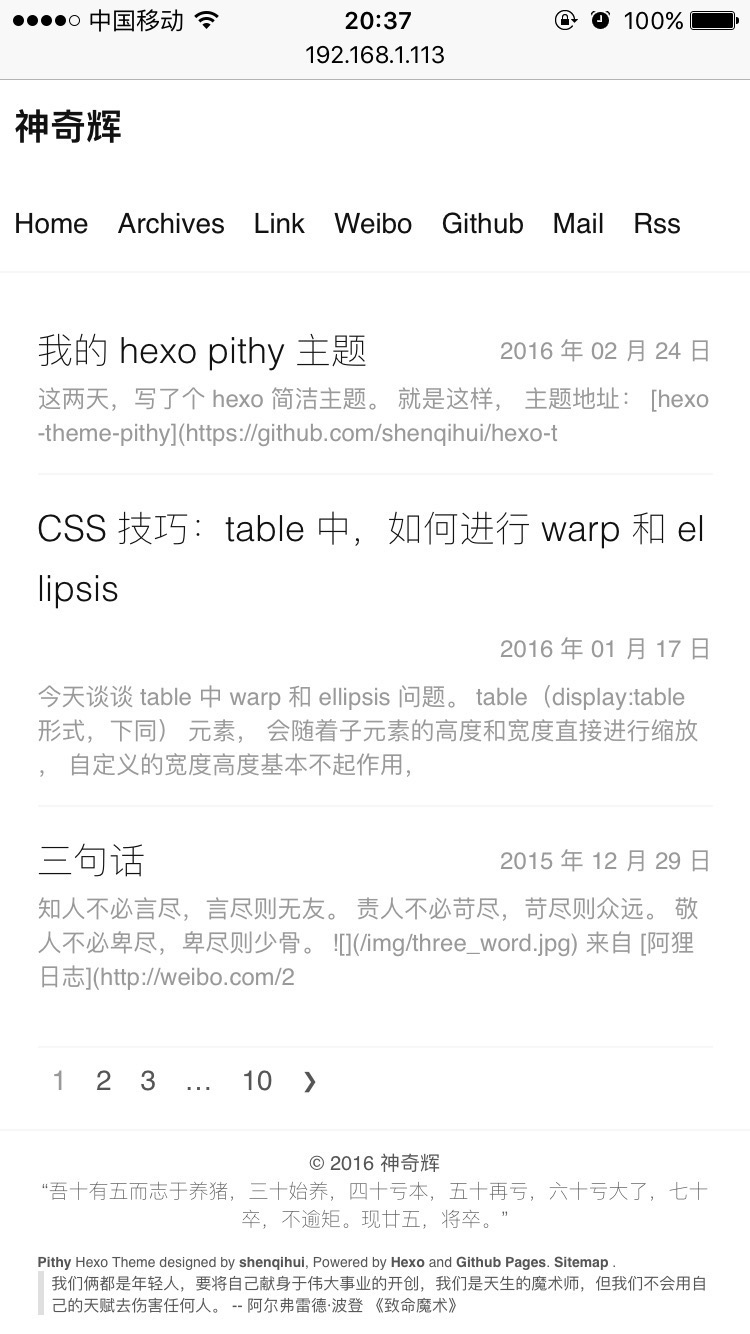
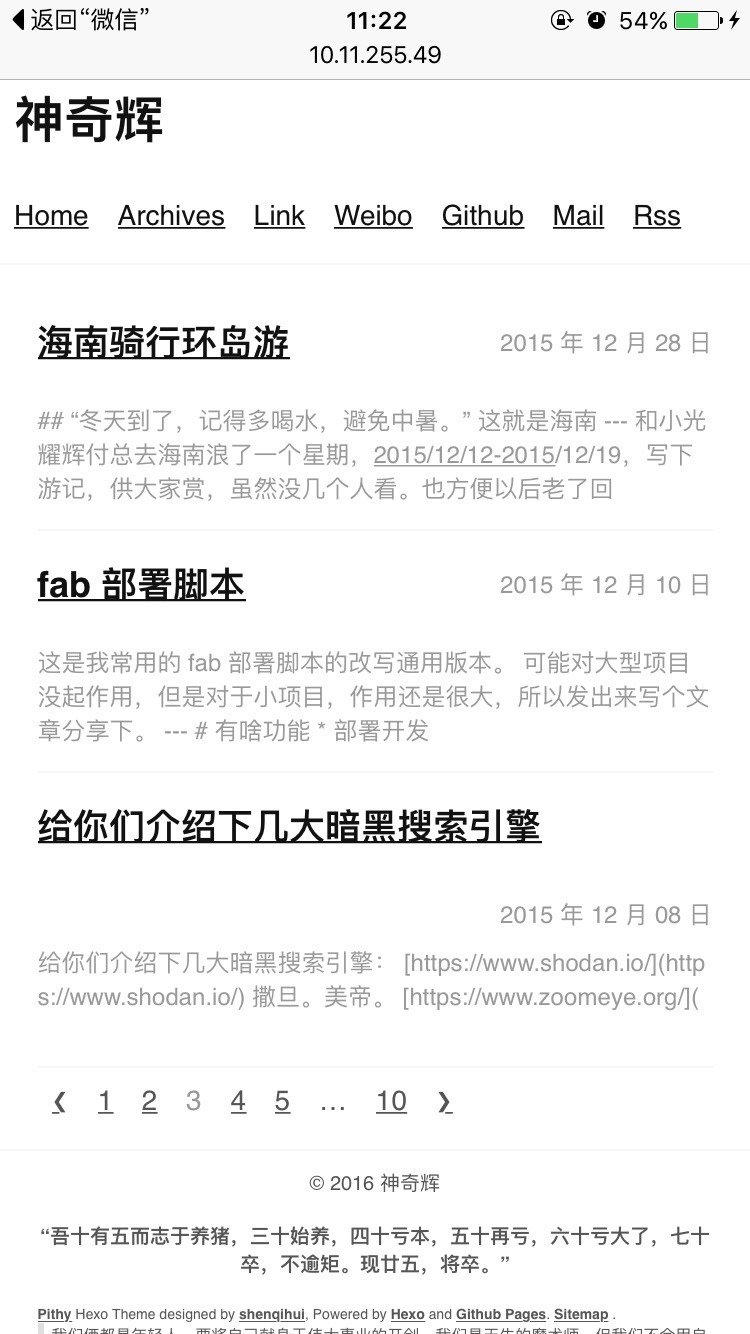
update link and hero theme.

diff --git a/source/_posts/my-hexo-theme-pithy.md b/source/_posts/my-hexo-theme-pithy.md
@@ -15,11 +15,13 @@ tags: ['hexo', 'theme', '设计']
 
 大屏幕效果：
 ![大屏幕效果](/picture/hexo-theme-pithy/desktop.jpg)
-大屏幕效果之 Archive：
+大屏幕效果之 Archive ：
 ![大屏幕 archive 效果](/picture/hexo-theme-pithy/desktop-archive.jpg)
 
 iPad 效果：
-![iPad 效果](/picture/hexo-theme-pithy/pad.jpg)
+![iPad 效果](/picture/hexo-theme-pithy/pad.jpg)  
+iPad 效果之 Archive ：
+![iPad 效果](/picture/hexo-theme-pithy/pad.jpg)  
 
 iPhone 效果：
 ![iPhone 效果](/picture/hexo-theme-pithy/phone.jpg)

diff --git a/source/link/index.md b/source/link/index.md
@@ -15,5 +15,9 @@ date: 2016-02-24 15:44:13
 
 ## 友情链接
 
-[ZoomEye](https://www.zoomeye.org/)
-[偶尔陶醉的世界](http://www.stutostu.com/)
+### 团体
+[ZoomEye](https://www.zoomeye.org/)  
+
+### 个人
+[偶尔陶醉的世界](http://www.stutostu.com/)  
+[jay](http://www.devjay.com/)  
